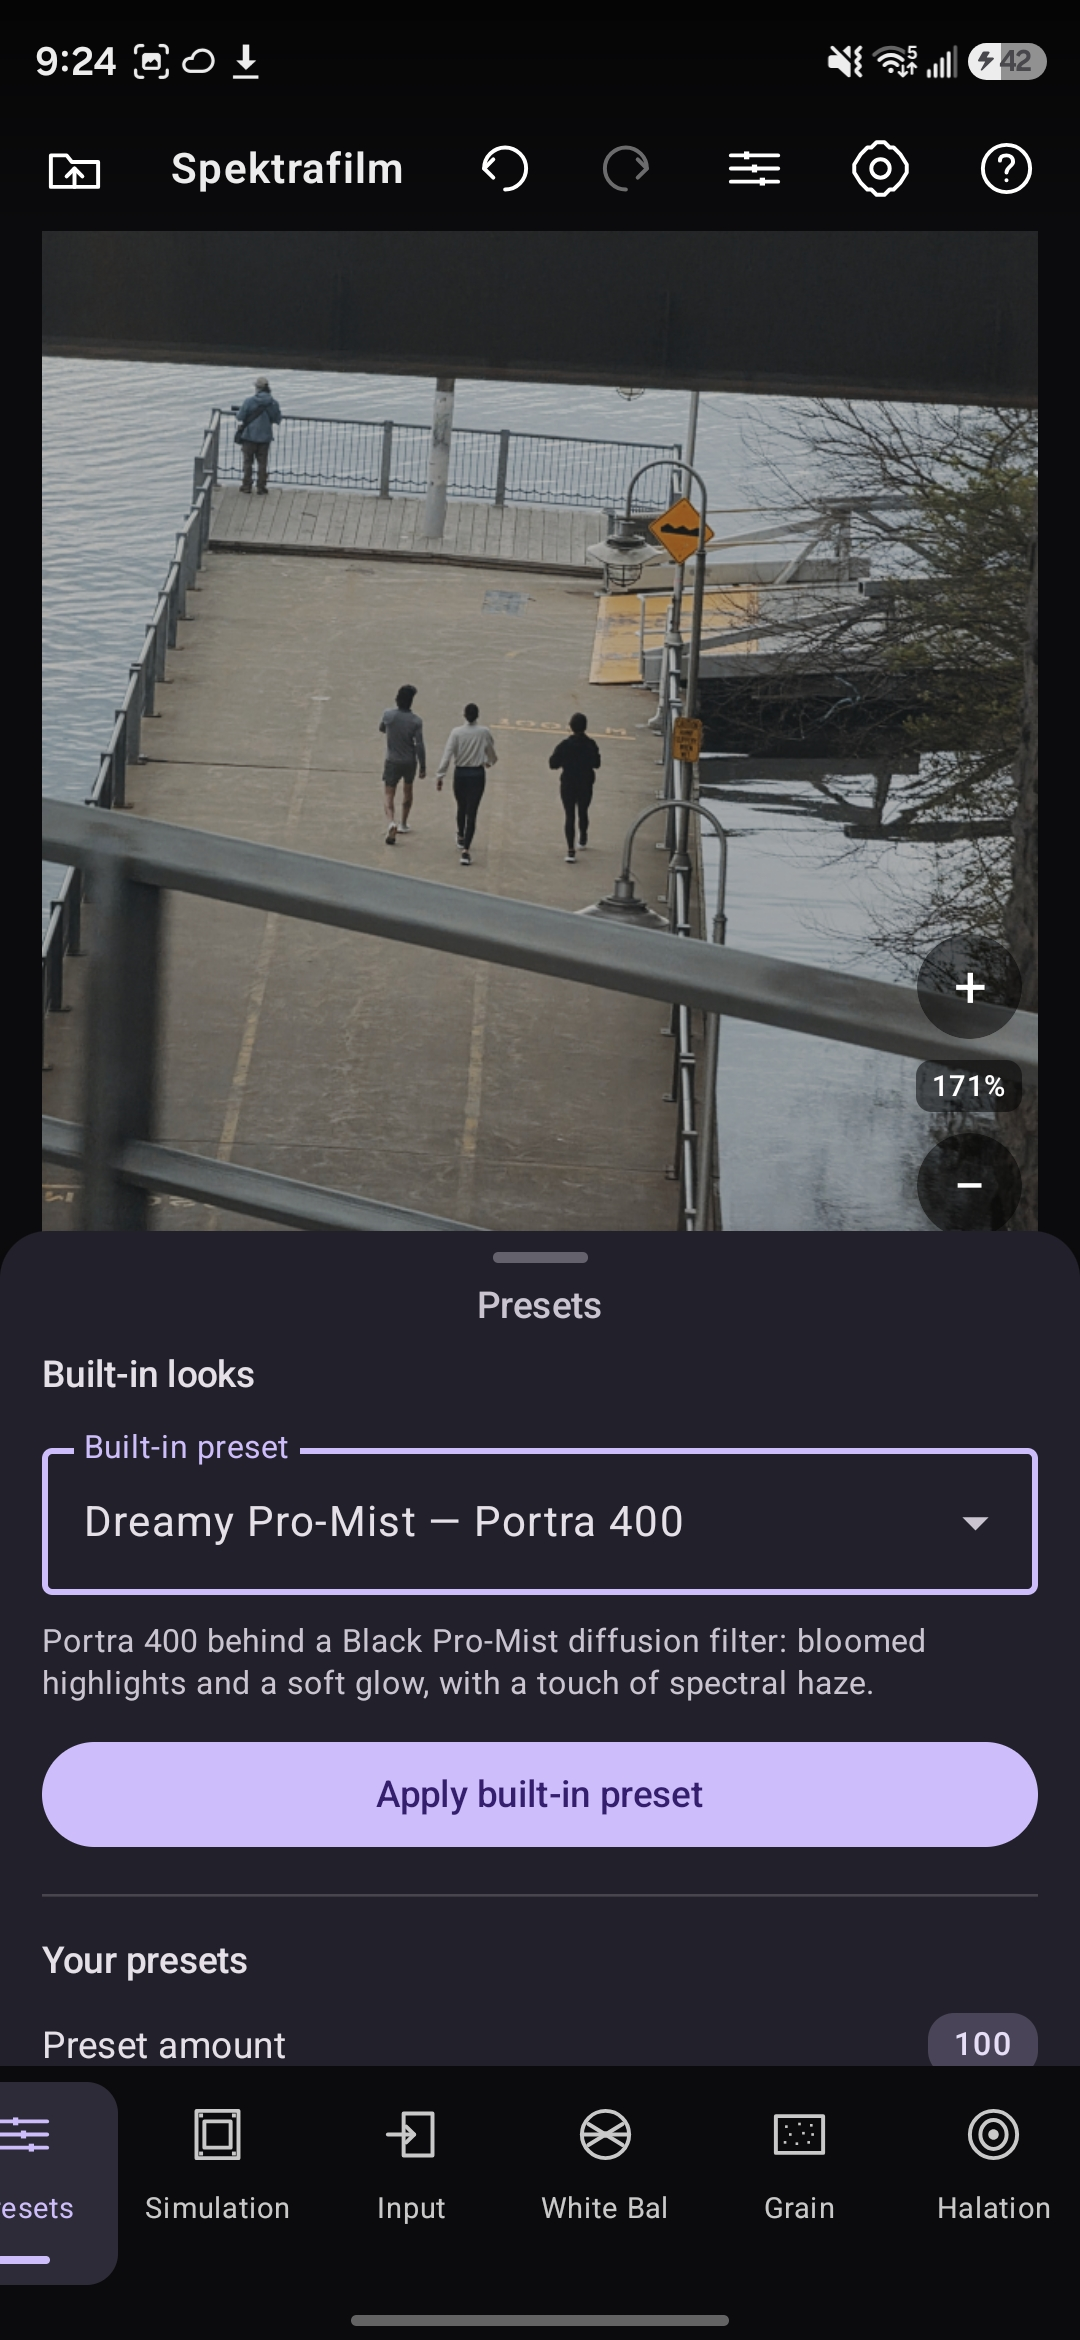
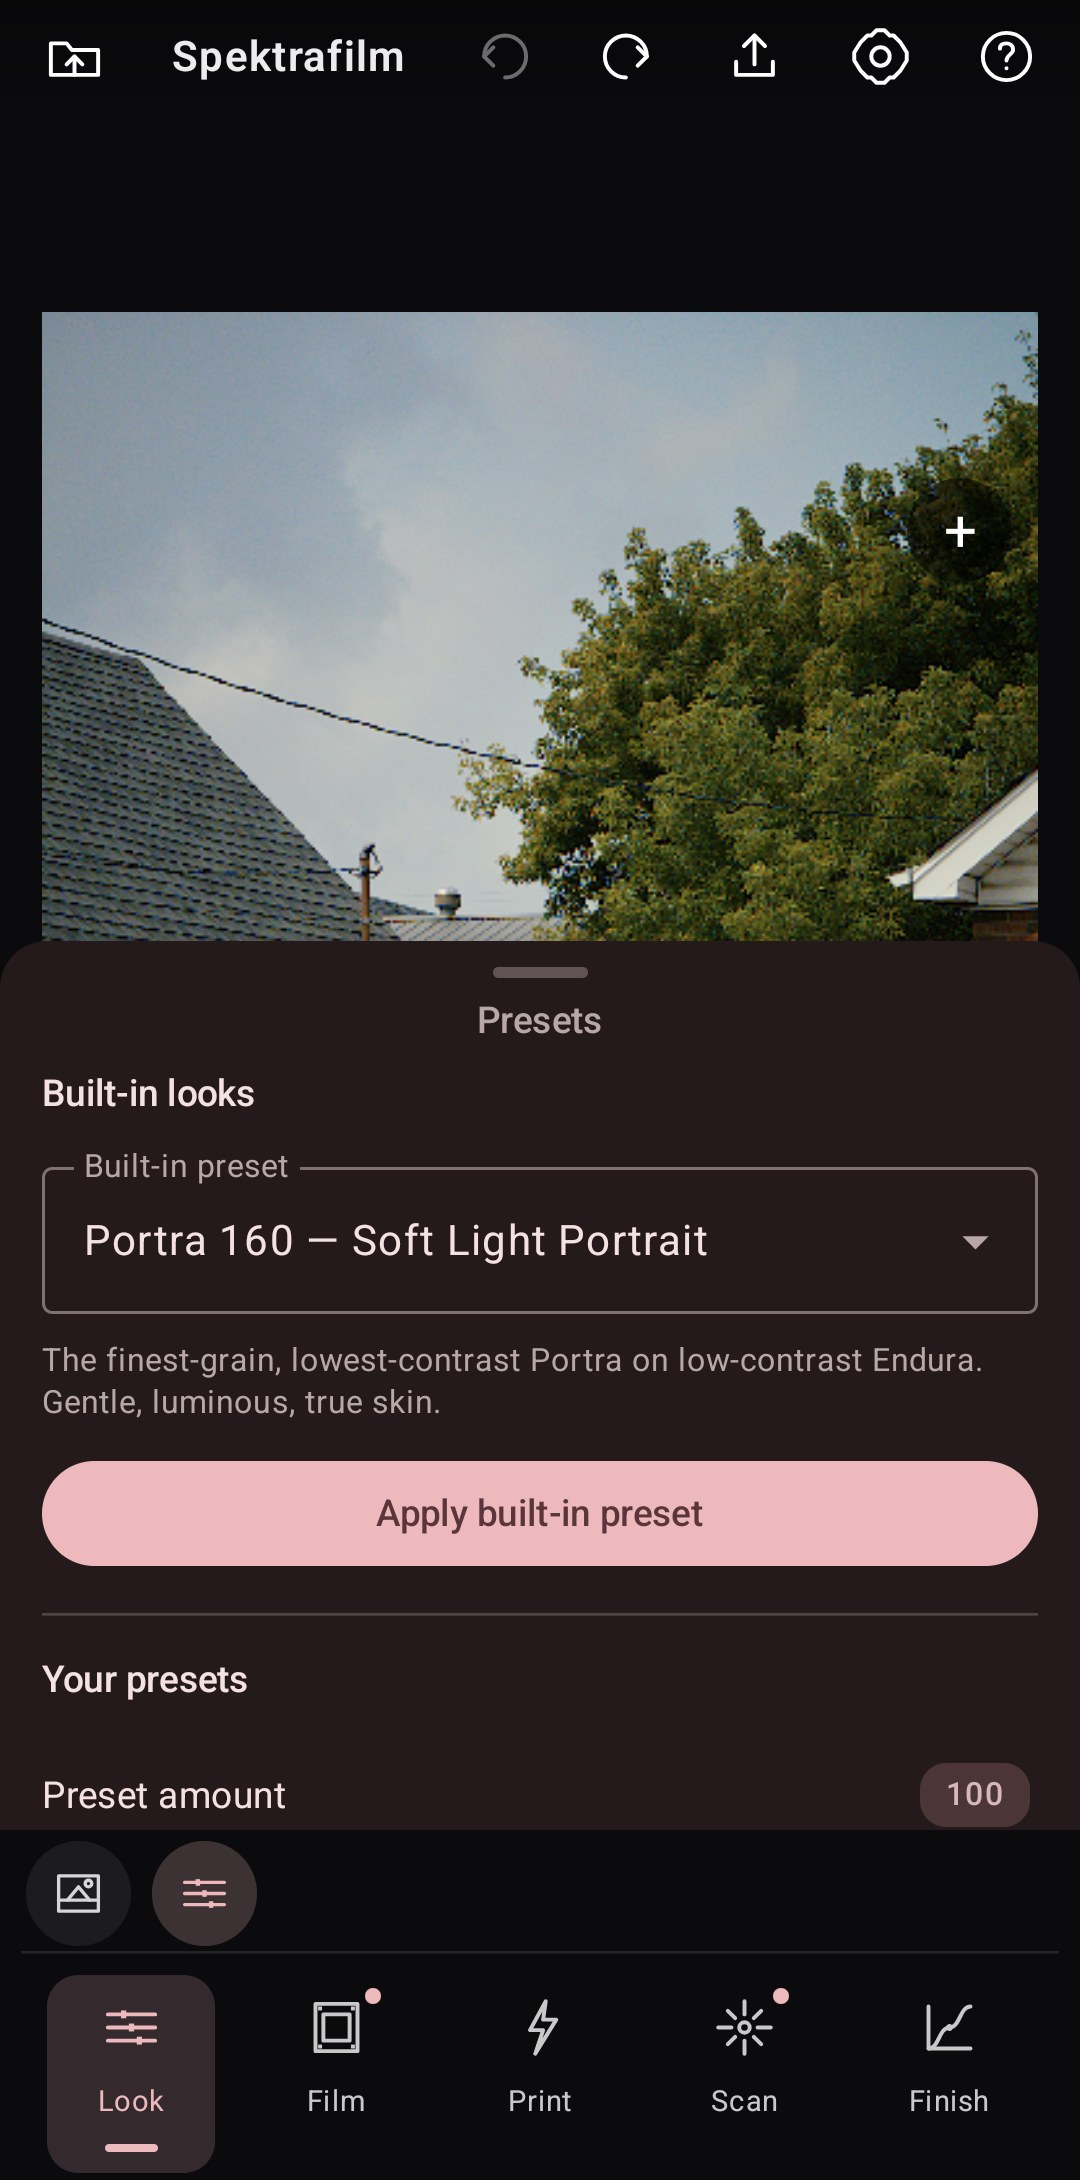
docs(readme): describe Latent, refresh the screenshots, and correct the render routes
Three changes, all of them things the README said that were no longer true.

Latent positioning (#144). The owner has decided how to present it: Latent is a
computational engine built around the manipulation of RAW images, and this app
is the editor that runs the spectral film simulation over a photo or RAW file.
The earlier personal status note, retained verbatim in a collapsed block pending
that decision, is removed at the owner's instruction. It appeared nowhere else
in the repository.

Render routes. The "Two render routes" table was backwards: it described Strict
Exact CPU as the default and Fast GPU as "opt-in, experimental". Since 294d3dc
the GPU route is how the app renders and exports, the three Settings toggles are
gone, and AppSettings.gpuExportEngine's getter returns true unconditionally --
the stored preference key is written but never read. The table now says so, that
a default export is tolerance-bounded rather than byte-identical to the CPU
path, and that Strict Exact CPU is the parity-bearing reference but is not
currently selectable from the app.

Screenshots. Captured from the shipping v0.10.0 build (versionCode 12) on a real
device, replacing the 2026-08-27 set: film stock (Kodak Vision3 250D), built-in
looks (Portra 160 -- Soft Light Portrait), tone curve, and the scanner stage.
Status bar and gesture pill cropped; about 200 KB each, down from 600 KB-1 MB.
editor.jpg and masks.jpg are removed and nothing referenced them.

Refs #144

diff --git a/README.md b/README.md
@@ -16,34 +16,28 @@ Dedicated to the [pixls.us](https://pixls.us) community.*
 
 <table>
   <tr>
-    <td><img src="docs/screenshots/editor.jpg" width="200" alt="Editor"></td>
-    <td><img src="docs/screenshots/presets.jpg" width="200" alt="Presets"></td>
-    <td><img src="docs/screenshots/masks.jpg" width="200" alt="Masks"></td>
+    <td><img src="docs/screenshots/film.jpg" width="200" alt="Film stock selection"></td>
+    <td><img src="docs/screenshots/presets.jpg" width="200" alt="Built-in looks"></td>
     <td><img src="docs/screenshots/tone-curve.jpg" width="200" alt="Tone curve"></td>
+    <td><img src="docs/screenshots/scan.jpg" width="200" alt="Scanner stage"></td>
   </tr>
   <tr>
-    <td align="center"><sub>Editor</sub></td>
-    <td align="center"><sub>Presets</sub></td>
-    <td align="center"><sub>Local masks</sub></td>
+    <td align="center"><sub>Film stock</sub></td>
+    <td align="center"><sub>Built-in looks</sub></td>
     <td align="center"><sub>Tone curve</sub></td>
+    <td align="center"><sub>Scanner stage</sub></td>
   </tr>
 </table>
 
 </div>
 
-> [!IMPORTANT]
-> **Development status:** the current tree has active post-v0.9.0 implementation work and remains
-> under a production-release hold. Public positioning relative to the owner's Latent camera project
-> is an unresolved human decision in
-> [Make README and project status truthful for the next release](https://github.com/thetechgeekko/Spektrafilm-android/issues/144).
+> [!NOTE]
+> **Related project — Latent.** Latent is a computational engine built around the manipulation of
+> RAW images. Spektrafilm for Android is the editor: you bring it a photo or a RAW file and it runs
+> the spectral film simulation over it. The two are developed by the same author and share the same
+> interest in getting RAW data right, but this app stands on its own and is maintained here.
+>
 > Live engineering work and known gates are in the [execution index](docs/EXECUTION_INDEX.md).
-
-<details>
-<summary>Earlier owner status note (retained verbatim pending that decision)</summary>
-
-Hello fellow geeks this app was a concept to do Spectral simulation BUT getting it perfect took a long time even after using Claude Max plan and running multiple agents to complete the app. So basically its a AI slop (And i am sorry for that). Even after getting good results from the app i was not satisfied. As i wanted a app which actually takes raw and processes it at extreme super fast speed just like taking a HDR+ photo in GCAM. As soon as i exported one photo from this app i was confident that i could do better and relentlessly worked on a different app which can take straight film emulated high images with a swipe to change presets, and have a one another way of taking the picture the HDR way not like Google's exposure fusion which gives pop effect to a photo. Researching day and night , but no luck . First i tried taking raw capture straight from sensor just like how motioncam does, yes, it is very hard until you read AOSP and everything was laid out there but you have to add your own tricks like using multiple workers to process the raw stream, package the raw buffer, merge bracketed buffer, get depth map , do film emulation and export the image as jpeg. I also tried taking raw frames+pcm audio+gyro data and convert it with film emulation Its still under WIP as there are so many bugs and i do not want to use AI for this as this is one of the projects that I wanted to do since 2016. So, therefore from this moment this app will be superseded by "Latent" a Film emulation Camera app. If i had any free time i will update the app and make it faster if someone needs it.
-
-</details>
 
 ---
 
@@ -113,17 +107,21 @@ x86_64.
 
 ## Two render routes
 
-| | Strict Exact (default) | Fast GPU (opt-in, experimental) |
+| | Fast GPU (what the app runs) | Strict Exact CPU (the reference) |
 |---|---|---|
-| Runs on | CPU, f64 | Vulkan compute, f32 |
-| Contract | bit-exact against the oracle within tolerance | tolerance-bounded against that CPU route |
-| Determinism | byte-identical across worker counts | same-device deterministic |
-| On failure | — | fails closed to the CPU route |
-| Used as parity evidence | yes | never |
+| Runs on | Vulkan compute, f32 | CPU, f64 |
+| Contract | tolerance-bounded against the CPU route | bit-exact against the oracle within tolerance |
+| Determinism | same-device deterministic | byte-identical across worker counts |
+| On failure | falls back to the CPU route | — |
+| Used as parity evidence | never | yes |
 
-The GPU route is opt-in and exists to make exports faster, not to redefine what correct means. Every
-GPU pass is gated against the f64 CPU stage before it ships, and refuses the request rather than
-returning an image it cannot bound.
+**Since v0.10.0 the GPU route is how the app renders and exports.** The three GPU toggles that used
+to sit in Settings are gone: the route is gated per device by its own self-check against the CPU
+engine, with automatic fallback where they disagree, so there is nothing left for a user to choose.
+A default export is therefore tolerance-bounded, not byte-identical to the CPU path.
+
+Strict Exact CPU remains the parity-bearing reference — it is what the 44 gated cases measure, and
+what "correct" means here. It is not currently selectable from the app.
 
 ## How it was made
 
